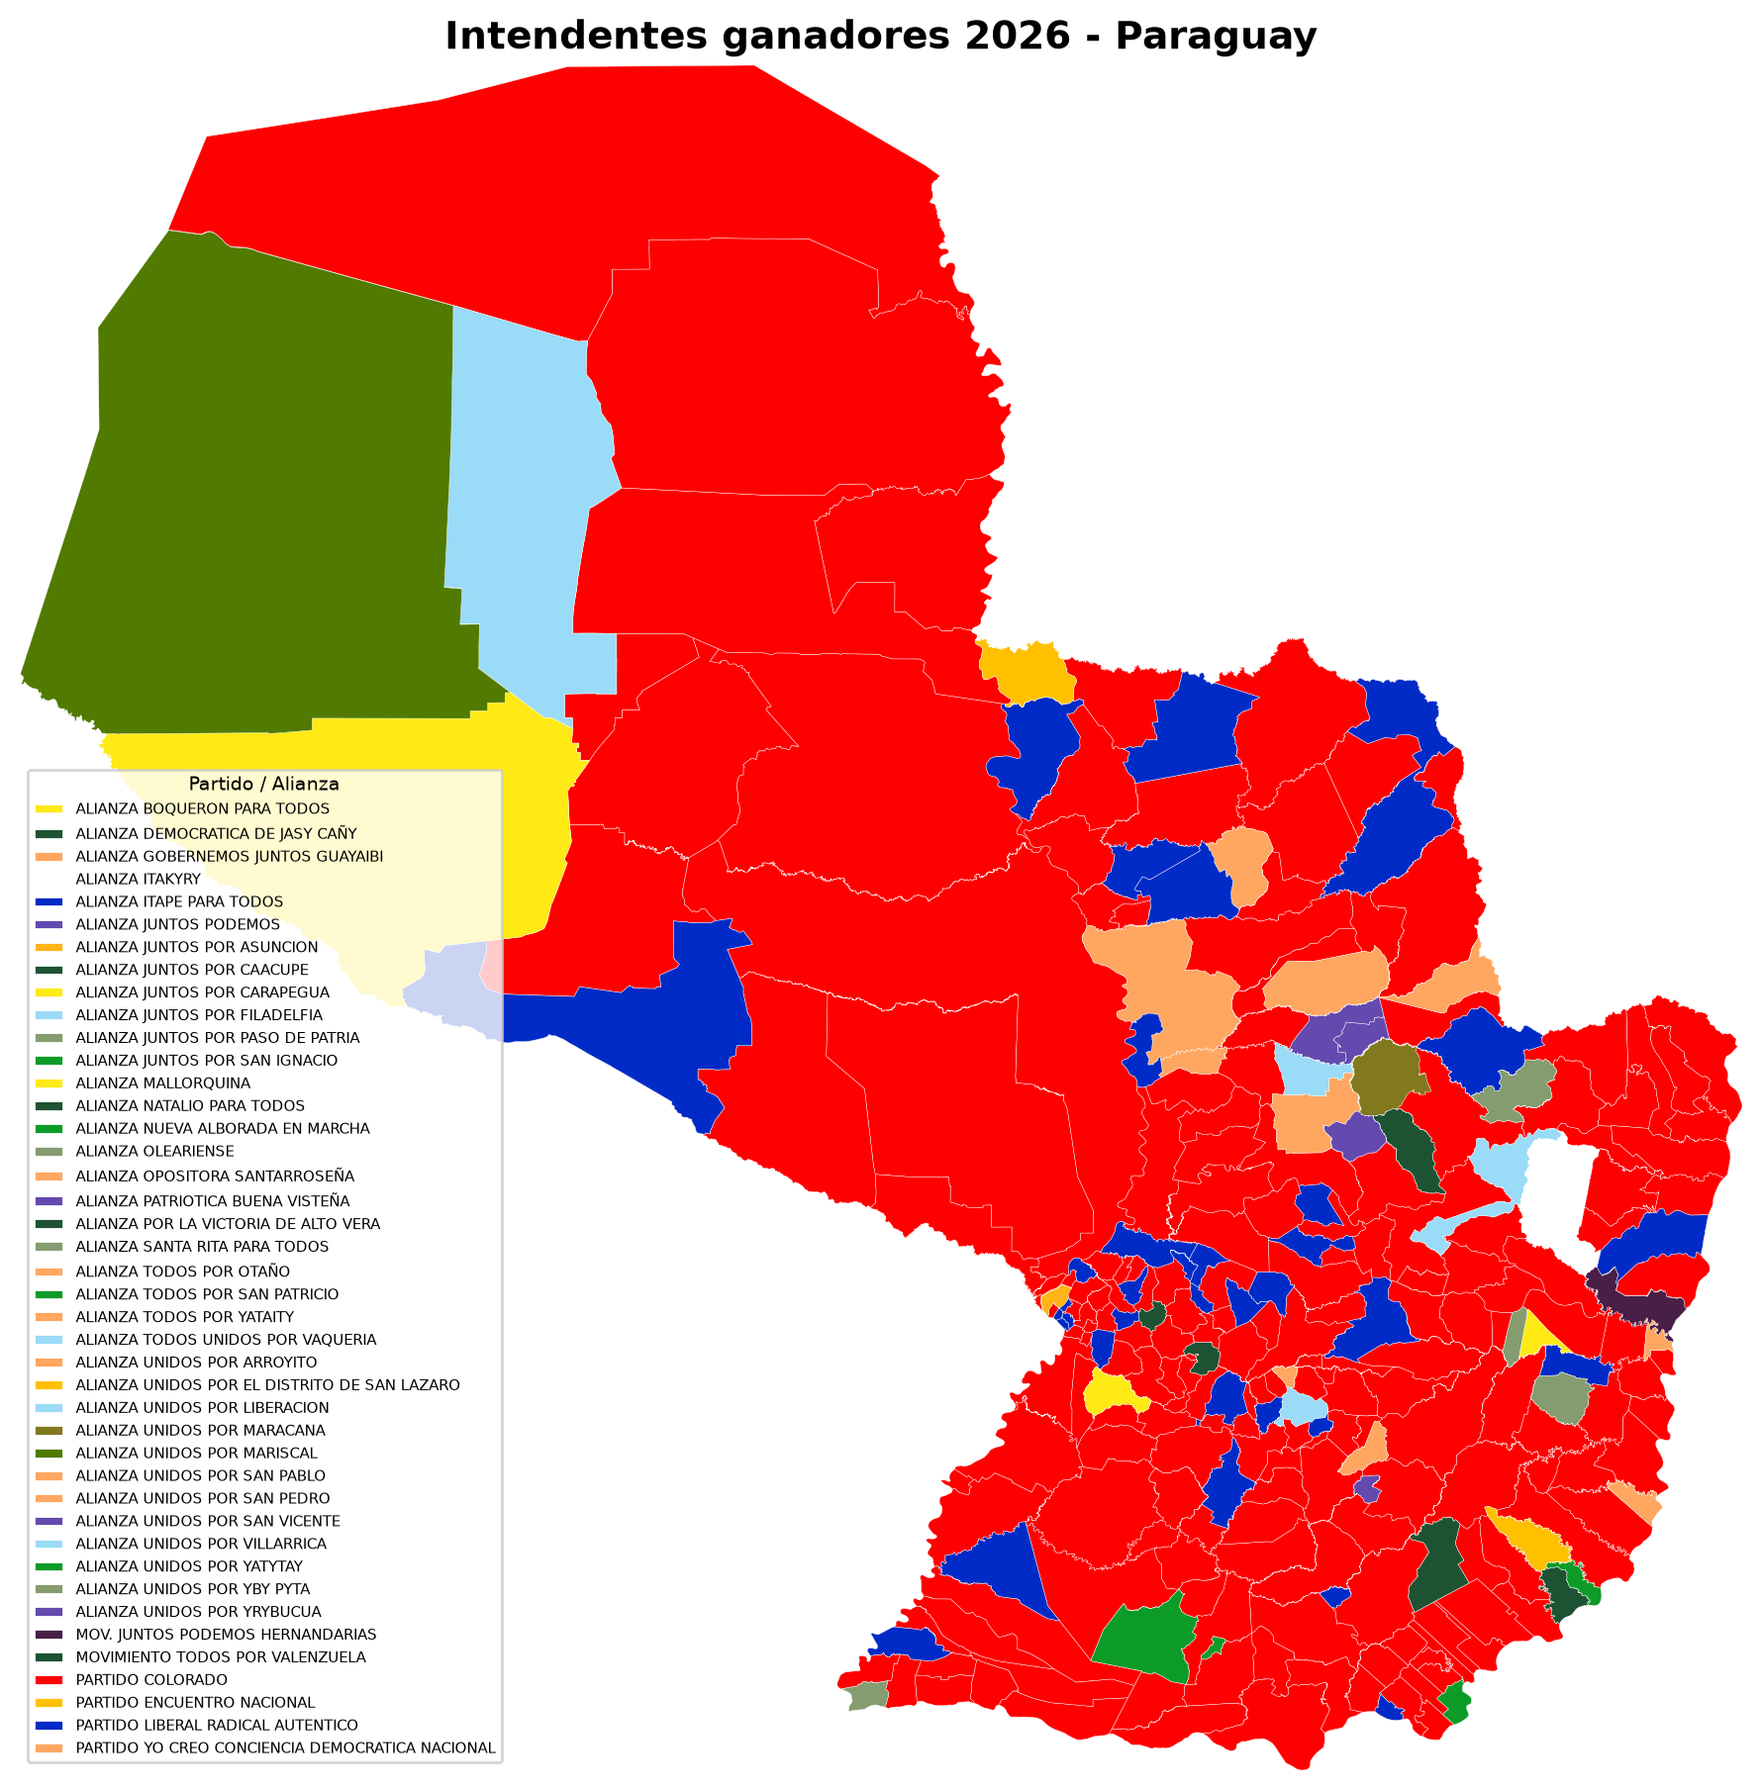
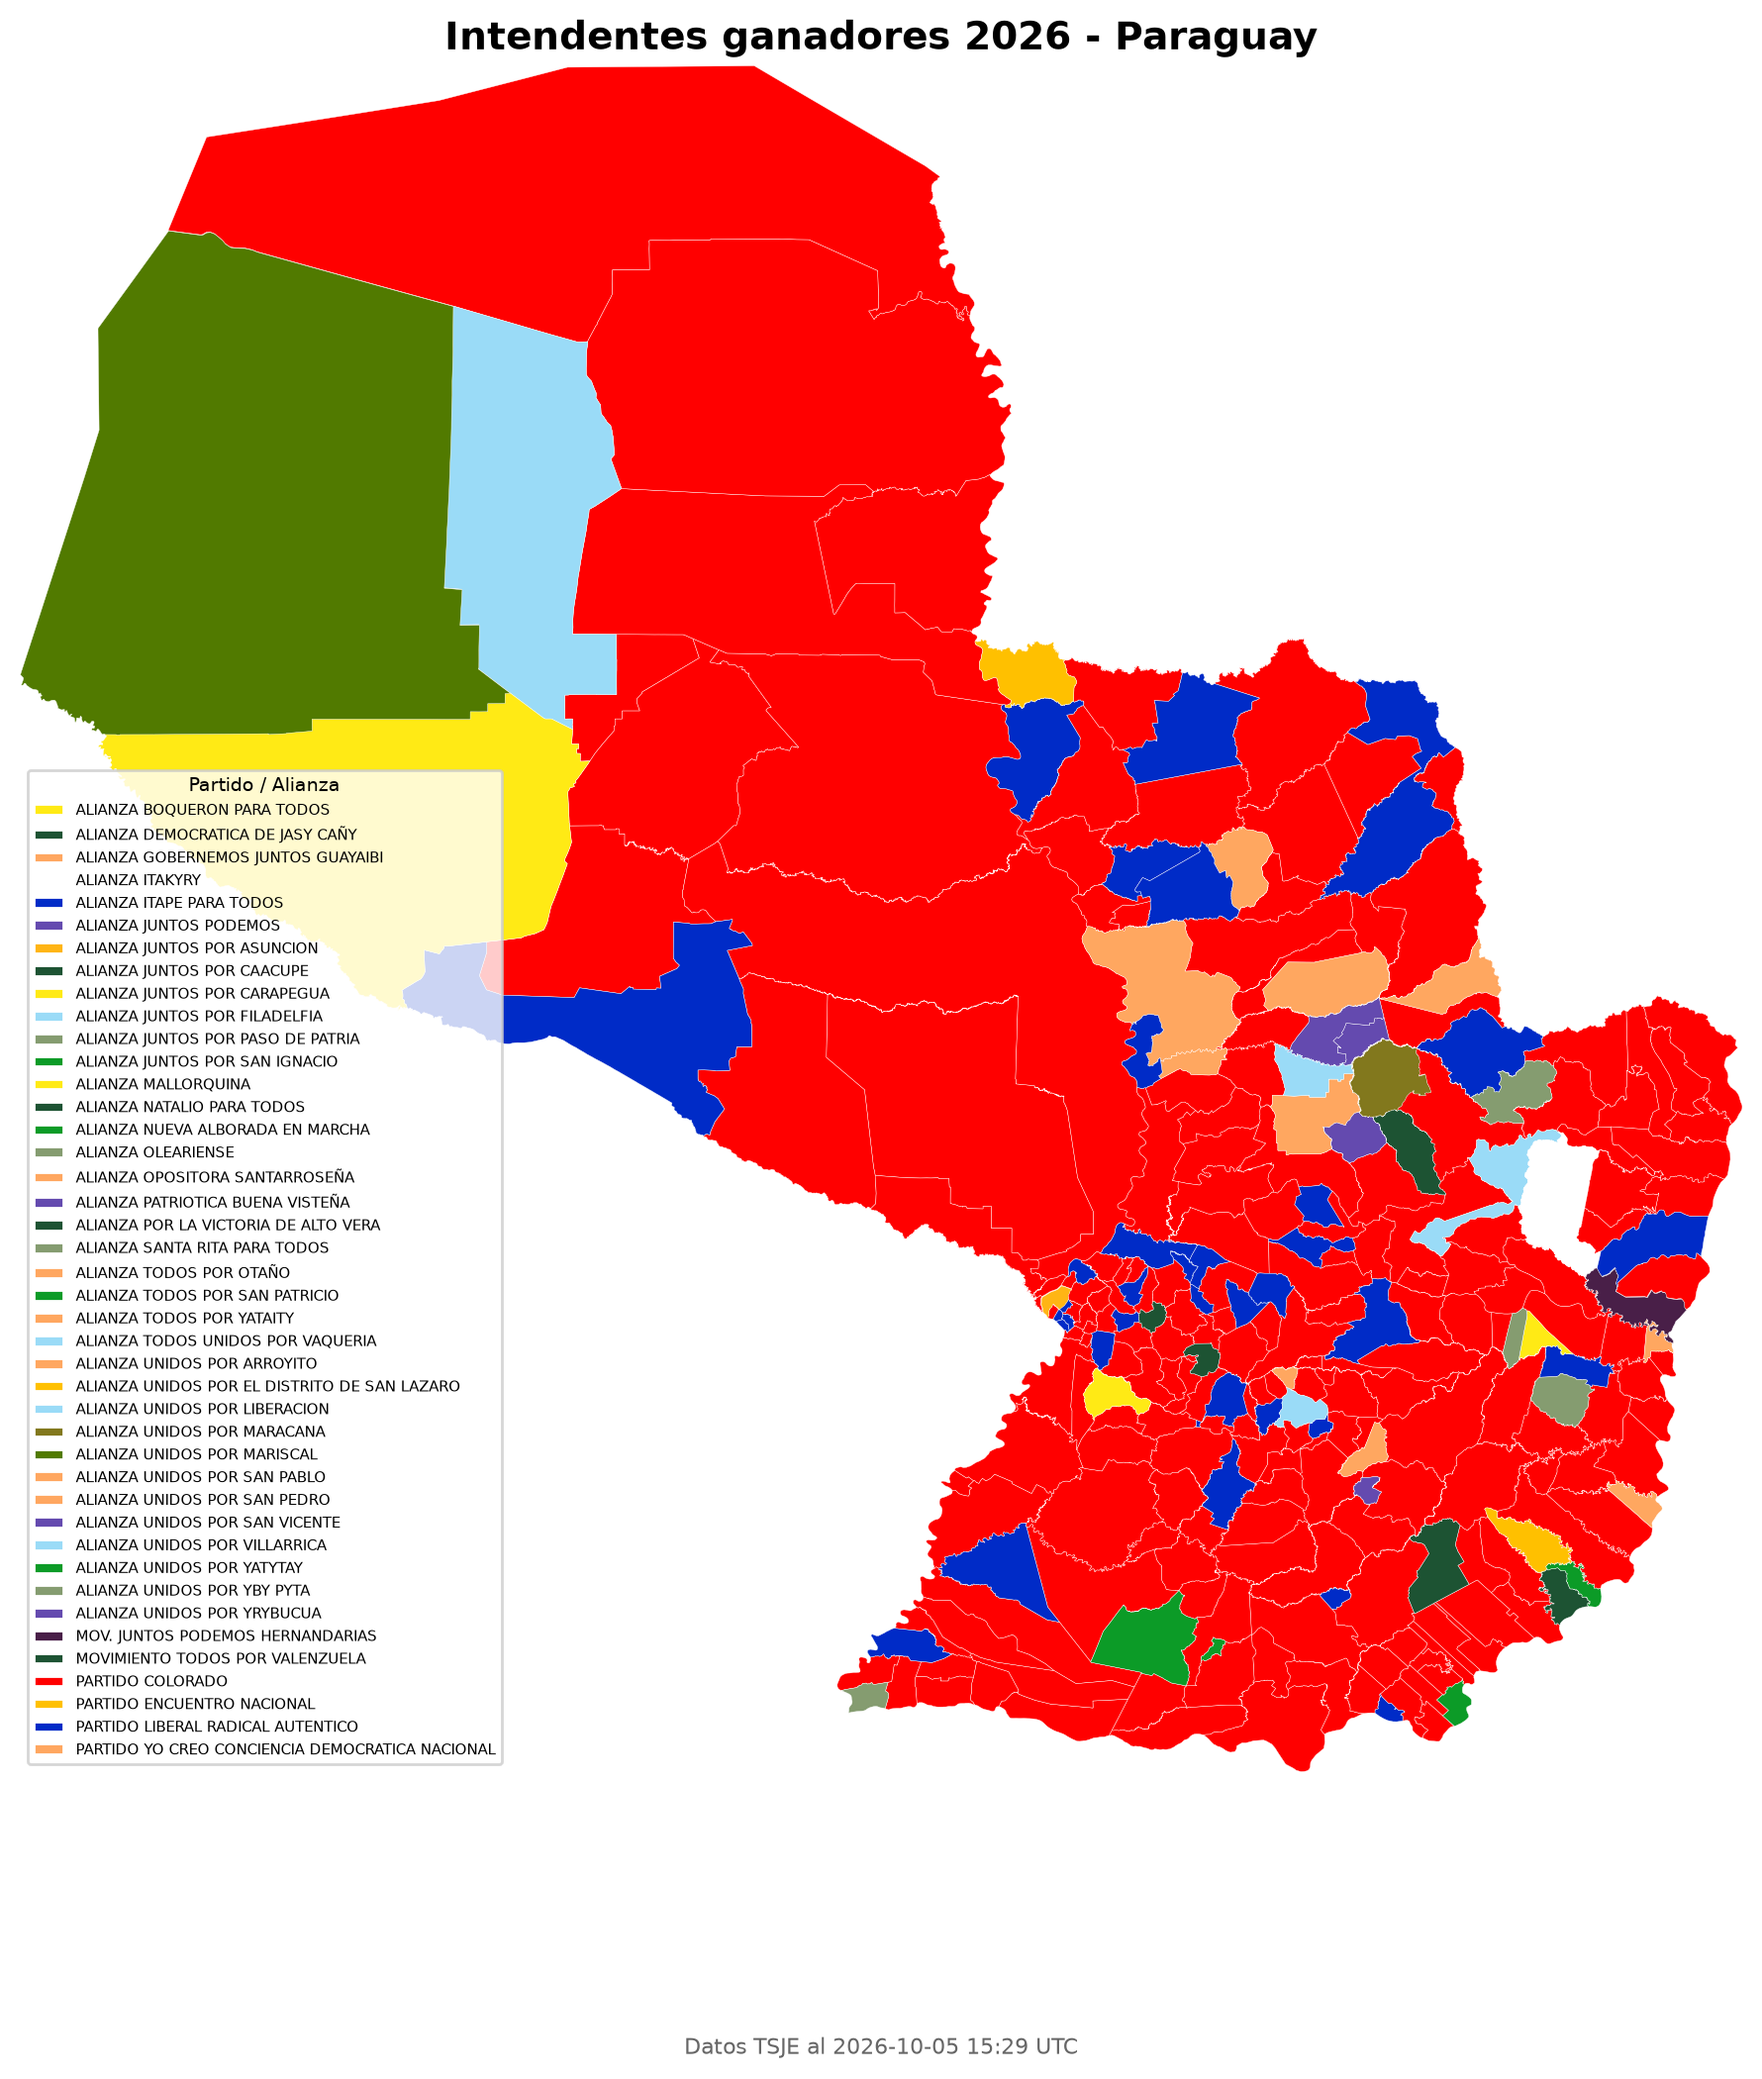
fix(render): stamp data timestamp on static map so each run updates it

Changed region(s): [[0.0, 0.0, 0.9888, 0.9906]]

diff --git a/make_choropleth.py b/make_choropleth.py
@@ -25,6 +25,7 @@ import json
 import pathlib
 import unicodedata
 from collections import defaultdict
+from datetime import datetime, timezone
 
 import folium
 import matplotlib
@@ -315,7 +316,7 @@ def build_feature_collection(records, features):
     return collection, rows, unmatched_geo, unmatched_tsje
 
 
-def render_png(collection, out_path):
+def render_png(collection, out_path, subtitle=None):
     by_color = defaultdict(list)
     parties = {}
     xs, ys = [], []
@@ -359,6 +360,8 @@ def render_png(collection, out_path):
         ncol=1,
     )
     fig.tight_layout()
+    if subtitle:
+        fig.text(0.5, 0.02, subtitle, ha="center", va="bottom", fontsize=8, color="#666666")
     fig.savefig(out_path, dpi=200, bbox_inches="tight")
     plt.close(fig)
 
@@ -422,7 +425,15 @@ def main() -> int:
     summary["share"] = (summary["distritos_ganados"] / len(df) * 100).round(2)
     summary.to_csv(OUT_DIR / "resumen_partidos.csv", index=False, encoding="utf-8")
 
-    render_png(collection, OUT_DIR / "choropleth_intendentes_2026.png")
+    scraped = raw.get("scraped_at")
+    subtitle = None
+    if scraped:
+        try:
+            ts = datetime.fromisoformat(scraped).astimezone(timezone.utc)
+            subtitle = f"Datos TSJE al {ts:%Y-%m-%d %H:%M} UTC"
+        except ValueError:
+            subtitle = f"Datos TSJE: {scraped}"
+    render_png(collection, OUT_DIR / "choropleth_intendentes_2026.png", subtitle=subtitle)
     render_html(collection, OUT_DIR / "mapa_intendentes_2026.html")
 
     matched = len(df)
